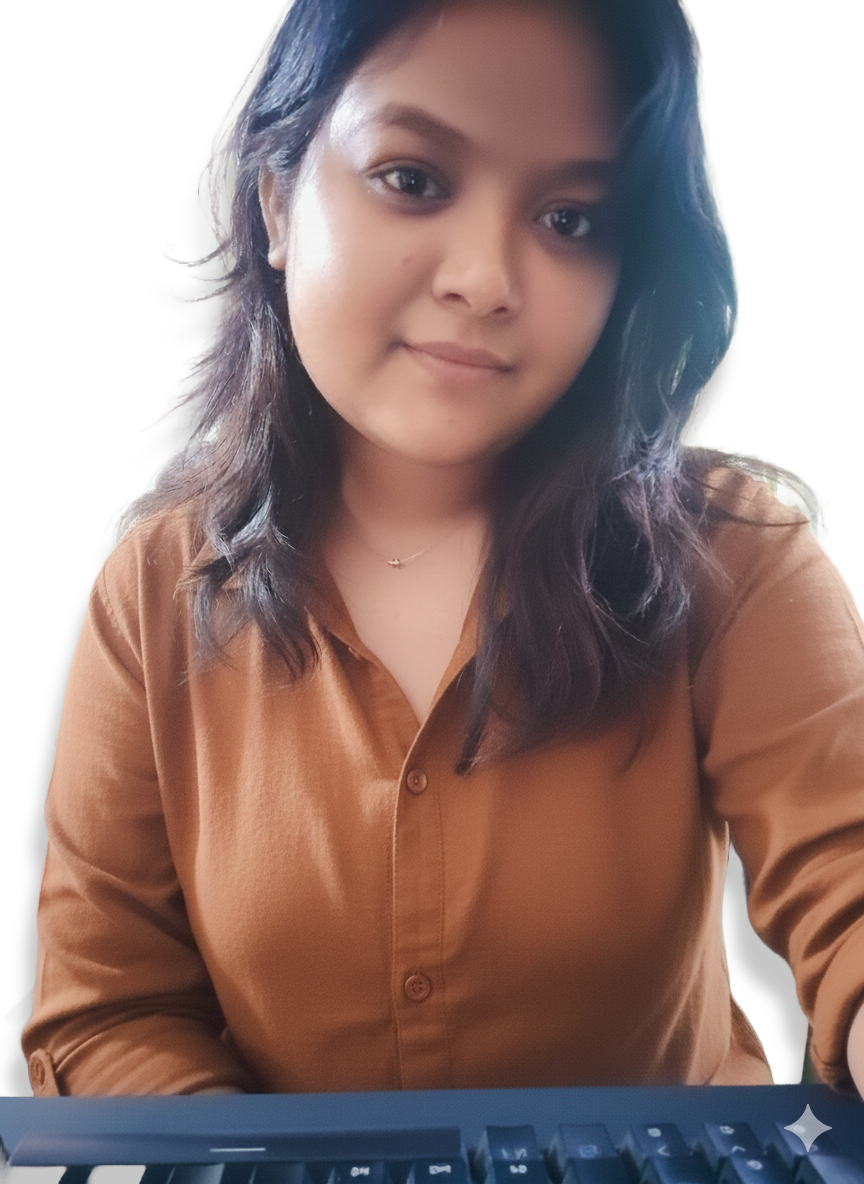
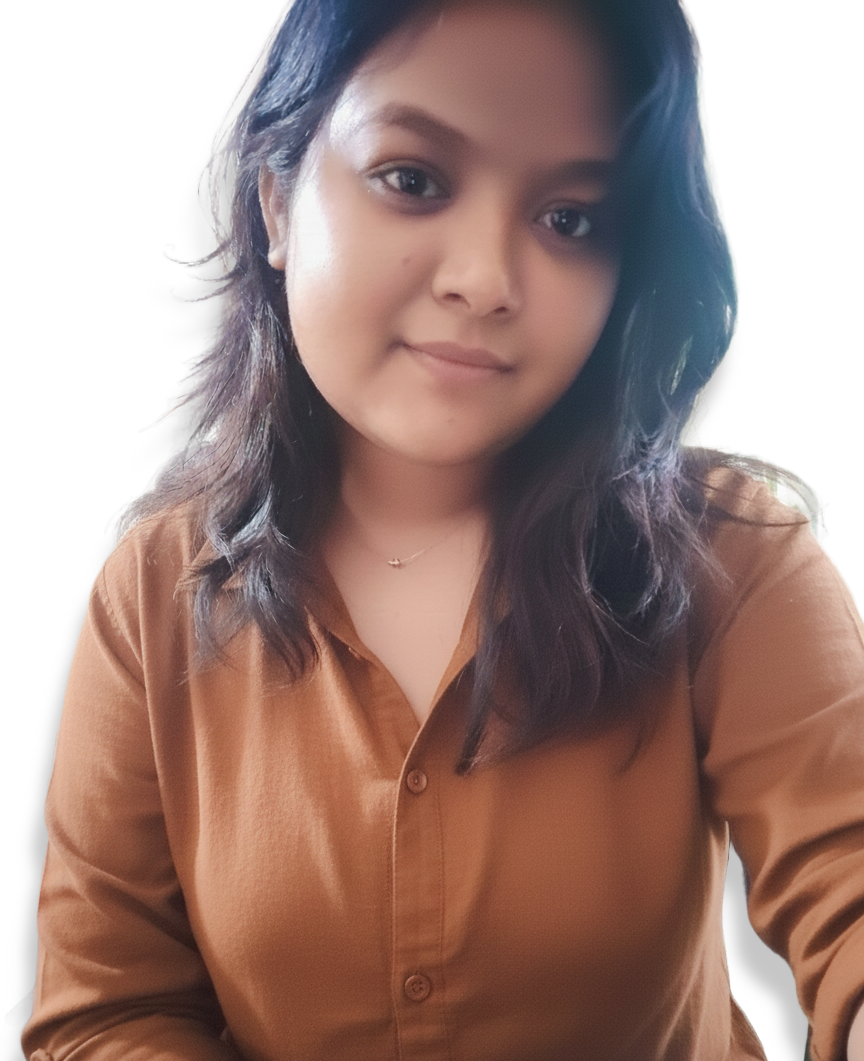
Changes

diff --git a/src/components/Hero.tsx b/src/components/Hero.tsx
@@ -49,7 +49,7 @@ const Hero = () => {
                 <img
                   src={bandanaPortrait}
                   alt="Bandana Nayek - UI/UX Designer"
-                  className="w-full h-full object-cover"
+                  className="w-full h-full object-cover object-top"
                 />
               </div>
             </div>
